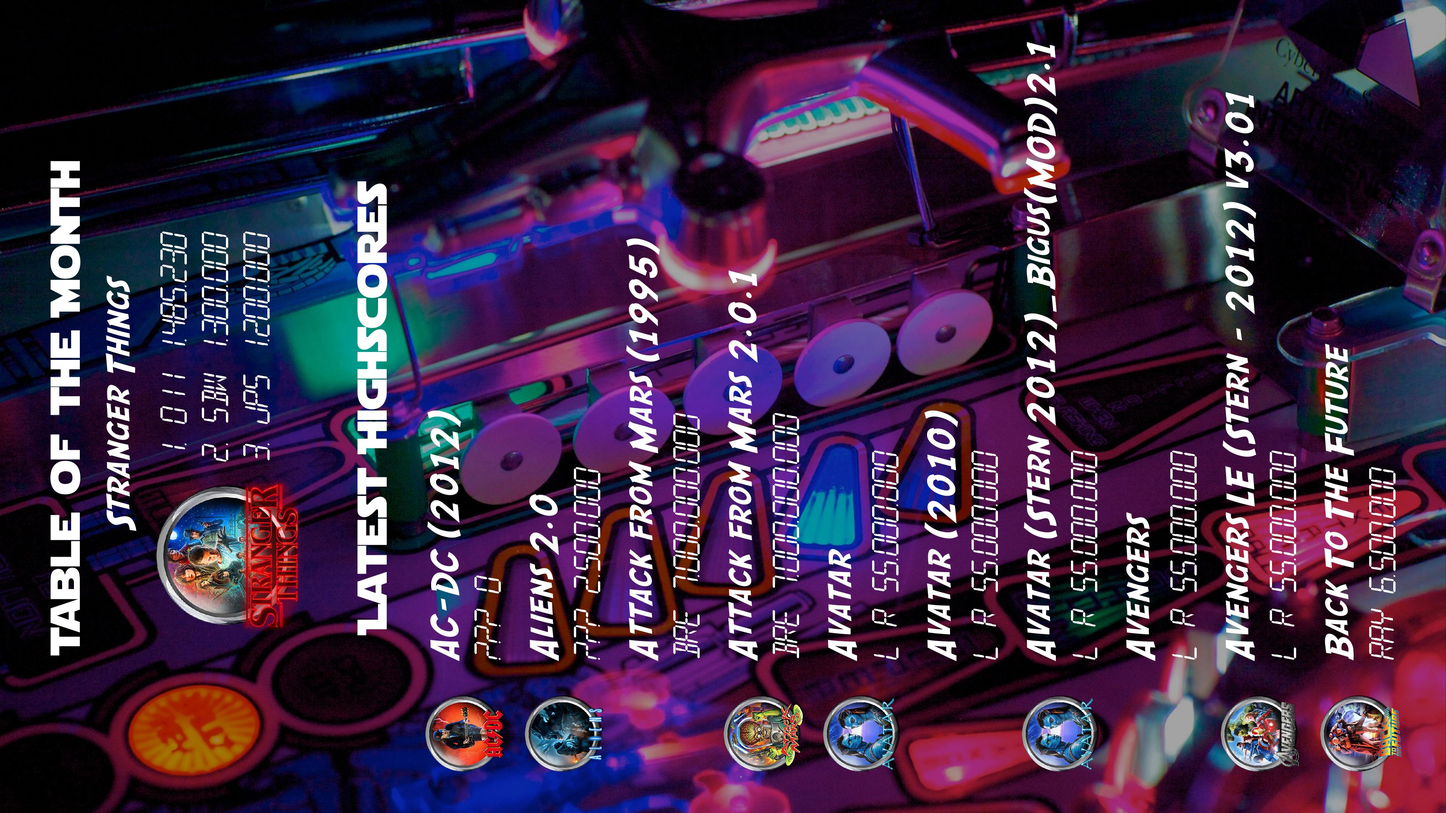
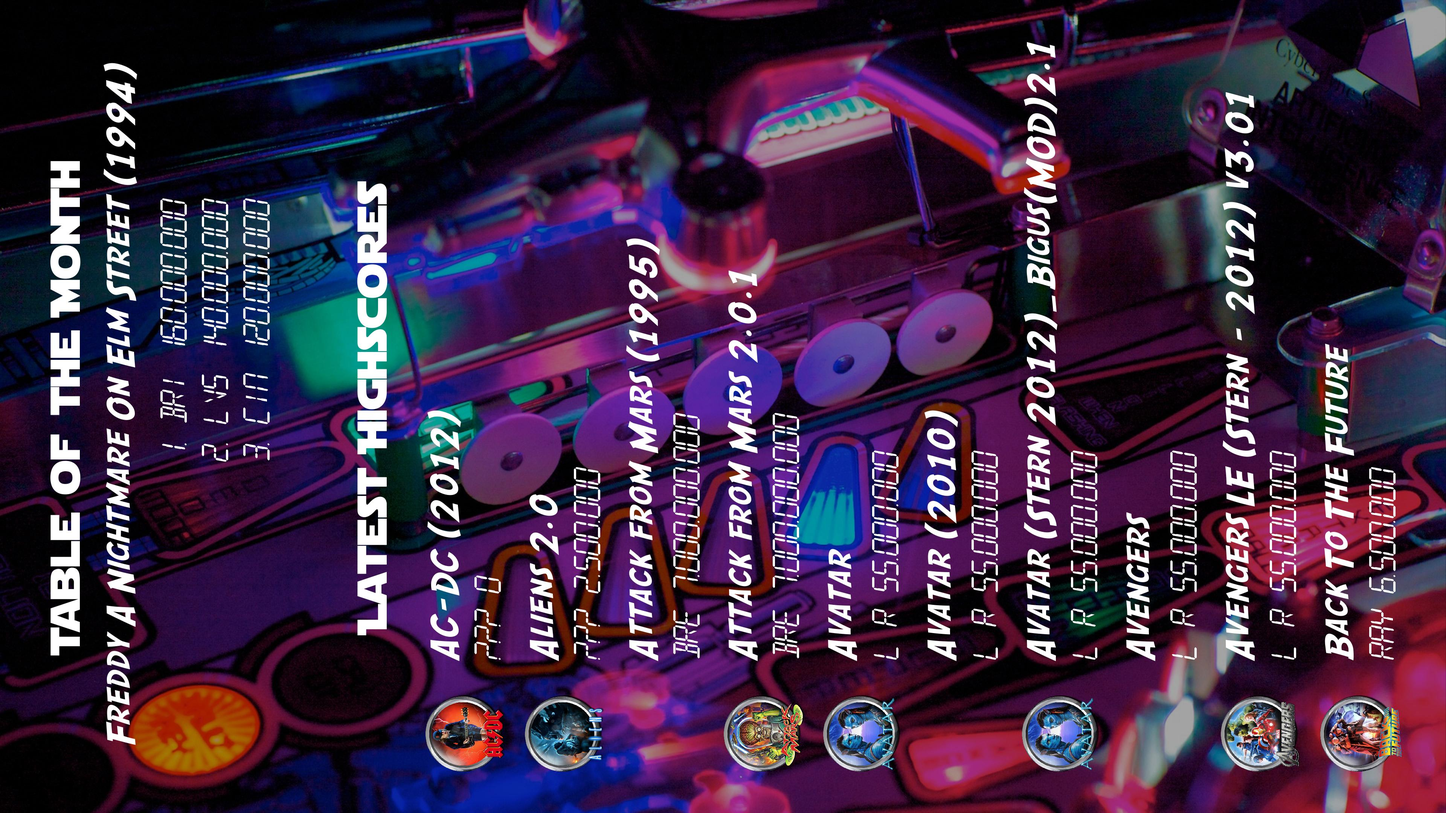
Highscore Cards

Changed region(s): [[0.0625, 0.062, 0.2188, 0.9306]]

diff --git a/src/main/java/de/mephisto/vpin/popper/overlay/generator/OverlayGenerator.java b/src/main/java/de/mephisto/vpin/popper/overlay/generator/OverlayGenerator.java
@@ -18,7 +18,9 @@ public class OverlayGenerator extends GraphicsGenerator {
   private final VPinService service;
 
   public static void main(String[] args) throws Exception {
-    generateOverlay(VPinService.create());
+    VPinService service = VPinService.create();
+    generateOverlay(service);
+    service.shutdown();
   }
 
   public static void generateOverlay(VPinService service) throws Exception {
@@ -34,7 +36,7 @@ public class OverlayGenerator extends GraphicsGenerator {
       BufferedImage backgroundImage = super.loadBackground(new File(SystemInfo.RESOURCES, Config.getOverlayGeneratorConfig().getString("overlay.background")));
       BufferedImage rotated = rotateRight(backgroundImage);
 
-      int selection = Config.getOverlayConfig().getInt("overlay.challengedTable");
+      int selection = Config.getOverlayGeneratorConfig().getInt("overlay.challengedTable");
       GameInfo gameOfTheMonth = null;
       if (selection > 0) {
         gameOfTheMonth = service.getGameInfo(selection);
@@ -47,8 +49,6 @@ public class OverlayGenerator extends GraphicsGenerator {
     } catch (Exception e) {
       LOG.error("Failed to generate overlay: " + e.getMessage(), e);
       throw e;
-    } finally {
-      service.shutdown();
     }
   }
 }

diff --git a/src/main/java/de/mephisto/vpin/popper/overlay/table/GameTableColumnModel.java b/src/main/java/de/mephisto/vpin/popper/overlay/table/GameTableColumnModel.java
@@ -1,4 +1,4 @@
-package de.mephisto.vpin.popper.overlay.tabes;
+package de.mephisto.vpin.popper.overlay.table;
 
 import javax.swing.table.DefaultTableColumnModel;
 import javax.swing.table.TableColumn;
@@ -6,18 +6,21 @@ import javax.swing.table.TableColumn;
 public class GameTableColumnModel extends DefaultTableColumnModel {
   public GameTableColumnModel() {
     TableColumn column = new TableColumn(0);
-    column.setHeaderValue("Table");
+    column.setHeaderValue("ID");
     addColumn(column);
     column = new TableColumn(1);
-    column.setHeaderValue("Emulator");
+    column.setHeaderValue("Table");
     addColumn(column);
     column = new TableColumn(2);
-    column.setHeaderValue("ROM");
+    column.setHeaderValue("Emulator");
     addColumn(column);
     column = new TableColumn(3);
-    column.setHeaderValue("#Played");
+    column.setHeaderValue("ROM");
     addColumn(column);
     column = new TableColumn(4);
+    column.setHeaderValue("#Played");
+    addColumn(column);
+    column = new TableColumn(5);
     column.setHeaderValue("Status");
     addColumn(column);
   }

diff --git a/src/main/java/de/mephisto/vpin/popper/overlay/table/GameTableModel.java b/src/main/java/de/mephisto/vpin/popper/overlay/table/GameTableModel.java
@@ -1,4 +1,4 @@
-package de.mephisto.vpin.popper.overlay.tabes;
+package de.mephisto.vpin.popper.overlay.table;
 
 import de.mephisto.vpin.GameInfo;
 import de.mephisto.vpin.VPinService;
@@ -29,18 +29,21 @@ public class GameTableModel extends AbstractTableModel {
   public Object getValueAt(int rowIndex, int columnIndex) {
     GameInfo gameInfo = gameInfos.get(rowIndex);
     if(columnIndex == 0) {
-      return gameInfo.getGameDisplayName();
+      return gameInfo.getId();
     }
     if(columnIndex == 1) {
-      return gameInfo.getEmulatorName();
+      return gameInfo.getGameDisplayName();
     }
     if(columnIndex == 2) {
-      return gameInfo.getRom();
+      return gameInfo.getEmulatorName();
     }
     if(columnIndex == 3) {
-      return gameInfo.getNumberPlays();
+      return gameInfo.getRom();
     }
     if(columnIndex == 4) {
+      return gameInfo.getNumberPlays();
+    }
+    if(columnIndex == 5) {
       if(StringUtils.isEmpty(gameInfo.getRom())) {
         return "No rom information found for table.";
       }

diff --git a/src/main/java/de/mephisto/vpin/popper/overlay/table/GamesTable.java b/src/main/java/de/mephisto/vpin/popper/overlay/table/GamesTable.java
@@ -1,4 +1,4 @@
-package de.mephisto.vpin.popper.overlay.tabes;
+package de.mephisto.vpin.popper.overlay.table;
 
 import de.mephisto.vpin.GameInfo;
 import de.mephisto.vpin.VPinService;
@@ -27,11 +27,12 @@ public class GamesTable extends JTable {
     getSelectionModel().addListSelectionListener(this);
     setRowHeight(20);
 
-    getColumnModel().getColumn(0).setPreferredWidth(160);
-    getColumnModel().getColumn(1).setPreferredWidth(40);
+    getColumnModel().getColumn(0).setPreferredWidth(20);
+    getColumnModel().getColumn(1).setPreferredWidth(160);
     getColumnModel().getColumn(2).setPreferredWidth(40);
-    getColumnModel().getColumn(3).setPreferredWidth(30);
-    getColumnModel().getColumn(4).setPreferredWidth(240);
+    getColumnModel().getColumn(3).setPreferredWidth(40);
+    getColumnModel().getColumn(4).setPreferredWidth(30);
+    getColumnModel().getColumn(5).setPreferredWidth(240);
 
     List<GameInfo> games = service.getGameInfos();
     setDefaultRenderer(Object.class, new DefaultTableCellRenderer() {

diff --git a/src/main/java/de/mephisto/vpin/popper/overlay/util/Config.java b/src/main/java/de/mephisto/vpin/popper/overlay/util/Config.java
@@ -8,13 +8,10 @@ import org.slf4j.LoggerFactory;
  * Utility for accessing the different config files.
  */
 public class Config {
-  private final static Logger LOG = LoggerFactory.getLogger(Config.class);
   private final static String GENERATOR_CONFIG_FILENAME = "overlay-generator.properties";
-  private final static String OVERLAY_CONFIG_FILENAME = "overlay.properties";
   private final static String CARd_CONFIG_FILENAME = "card-generator.properties";
 
   private static PropertiesStore generatorConfig;
-  private static PropertiesStore overlayConfig;
   private static PropertiesStore cardConfig;
 
   public static PropertiesStore getCardGeneratorConfig() {
@@ -29,12 +26,5 @@ public class Config {
       generatorConfig = PropertiesStore.create(GENERATOR_CONFIG_FILENAME);
     }
     return generatorConfig;
-  }
-
-  public static PropertiesStore getOverlayConfig() {
-    if (overlayConfig == null) {
-      overlayConfig = PropertiesStore.create(OVERLAY_CONFIG_FILENAME);
-    }
-    return overlayConfig;
   }
 }

diff --git a/src/main/java/de/mephisto/vpin/popper/overlay/overlaysettings/OverlaySettingsTabActionListener.java b/src/main/java/de/mephisto/vpin/popper/overlay/overlaysettings/OverlaySettingsTabActionListener.java
@@ -29,15 +29,7 @@ public class OverlaySettingsTabActionListener implements ActionListener {
   @Override
   public void actionPerformed(ActionEvent e) {
     String cmd = e.getActionCommand();
-    if (cmd.equals("tableOfTheMonthSelector")) {
-      GameInfo selectedItem = (GameInfo) ((JComboBox) e.getSource()).getSelectedItem();
-      String value = "";
-      if (selectedItem != null) {
-        value = String.valueOf(selectedItem.getId());
-      }
-      Config.getOverlayConfig().set("overlay.challengedTable", value);
-    }
-    else if (cmd.equals("modifierCombo")) {
+    if (cmd.equals("modifierCombo")) {
       this.saveOverlayKeyBinding();
     }
     else if (cmd.equals("keyCombo")) {
@@ -72,7 +64,7 @@ public class OverlaySettingsTabActionListener implements ActionListener {
       key = modifierNum + "+" + key;
     }
 
-    Config.getOverlayConfig().set("overlay.hotkey", key);
+    Config.getOverlayGeneratorConfig().set("overlay.hotkey", key);
   }
 
 }

diff --git a/src/main/java/de/mephisto/vpin/popper/overlay/util/WidgetFactory.java b/src/main/java/de/mephisto/vpin/popper/overlay/util/WidgetFactory.java
@@ -25,7 +25,7 @@ public class WidgetFactory {
 
   public static void createTableSelector(VPinService repository, JPanel parent, String title, PropertiesStore store, String property) {
     List<GameInfo> gameInfos = repository.getActiveGameInfos();
-    List<GameInfo> collect = gameInfos.stream().filter(g -> !StringUtils.isEmpty(g.getRom())).collect(Collectors.toList());
+    List<GameInfo> collect = gameInfos.stream().filter(g -> g.hasHighscore()).collect(Collectors.toList());
     Vector<GameInfo> data = new Vector<>(collect);
     data.insertElementAt(null, 0);
     final JComboBox tableSelection = new JComboBox(data);

diff --git a/src/main/java/de/mephisto/vpin/popper/overlay/ConfigWindow.java b/src/main/java/de/mephisto/vpin/popper/overlay/ConfigWindow.java
@@ -1,12 +1,9 @@
 package de.mephisto.vpin.popper.overlay;
 
-import de.mephisto.vpin.GameInfo;
 import de.mephisto.vpin.VPinService;
-import de.mephisto.vpin.highscores.HighscoreChangedEvent;
-import de.mephisto.vpin.ServiceListener;
 import de.mephisto.vpin.popper.overlay.cardsettings.CardSettingsTab;
 import de.mephisto.vpin.popper.overlay.overlaysettings.OverlaySettingsTab;
-import de.mephisto.vpin.popper.overlay.tabes.TablesTab;
+import de.mephisto.vpin.popper.overlay.table.TablesTab;
 import de.mephisto.vpin.popper.overlay.resources.ResourceLoader;
 import org.slf4j.Logger;
 import org.slf4j.LoggerFactory;

diff --git a/src/main/java/de/mephisto/vpin/popper/overlay/OverlayWindowFX.java b/src/main/java/de/mephisto/vpin/popper/overlay/OverlayWindowFX.java
@@ -44,8 +44,7 @@ public class OverlayWindowFX extends Application implements NativeKeyListener, S
   @Override
   public void start(Stage primaryStage) throws Exception {
     this.stage = primaryStage;
-    PropertiesStore overlayConfig = Config.getOverlayConfig();
-    String hotkey = overlayConfig.getString("overlay.hotkey");
+    String hotkey = Config.getCardGeneratorConfig().getString("overlay.hotkey");
     keyChecker = new KeyChecker(hotkey);
 
     Platform.setImplicitExit(false);

diff --git a/src/main/java/de/mephisto/vpin/popper/overlay/table/TablesTabActionListener.java b/src/main/java/de/mephisto/vpin/popper/overlay/table/TablesTabActionListener.java
@@ -1,9 +1,7 @@
-package de.mephisto.vpin.popper.overlay.tabes;
+package de.mephisto.vpin.popper.overlay.table;
 
 import de.mephisto.vpin.GameInfo;
 import de.mephisto.vpin.VPinService;
-import de.mephisto.vpin.highscores.HighscoreChangedEvent;
-import de.mephisto.vpin.ServiceListener;
 import de.mephisto.vpin.popper.overlay.ConfigWindow;
 import de.mephisto.vpin.roms.RomScanListener;
 import de.mephisto.vpin.roms.RomScannedEvent;

diff --git a/src/main/java/de/mephisto/vpin/popper/overlay/OverlayWindow.java b/src/main/java/de/mephisto/vpin/popper/overlay/OverlayWindow.java
@@ -21,8 +21,7 @@ public class OverlayWindow extends JFrame implements NativeKeyListener {
 
 
   public OverlayWindow() throws Exception {
-    PropertiesStore overlayConfig = Config.getOverlayConfig();
-    String hotkey = overlayConfig.getString("overlay.hotkey");
+    String hotkey = Config.getCardGeneratorConfig().getString("overlay.hotkey");
     keyChecker = new KeyChecker(hotkey);
 
     UIManager.setLookAndFeel(

diff --git a/src/main/java/de/mephisto/vpin/popper/overlay/overlaysettings/OverlaySettingsTab.java b/src/main/java/de/mephisto/vpin/popper/overlay/overlaysettings/OverlaySettingsTab.java
@@ -61,7 +61,7 @@ public class OverlaySettingsTab extends JPanel {
     keyCombo.addActionListener(this.actionListener);
 
 
-    String hotkey = Config.getOverlayConfig().get("overlay.hotkey");
+    String hotkey = Config.getCardGeneratorConfig().get("overlay.hotkey");
     if (hotkey != null) {
       if (hotkey.contains("+")) {
         String[] split = hotkey.split("\\+");
